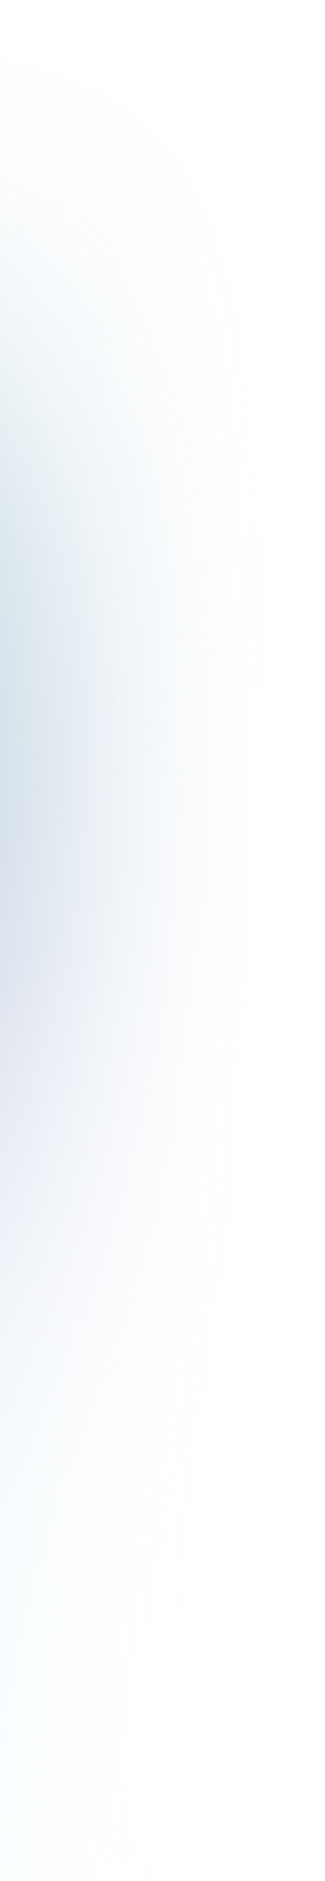
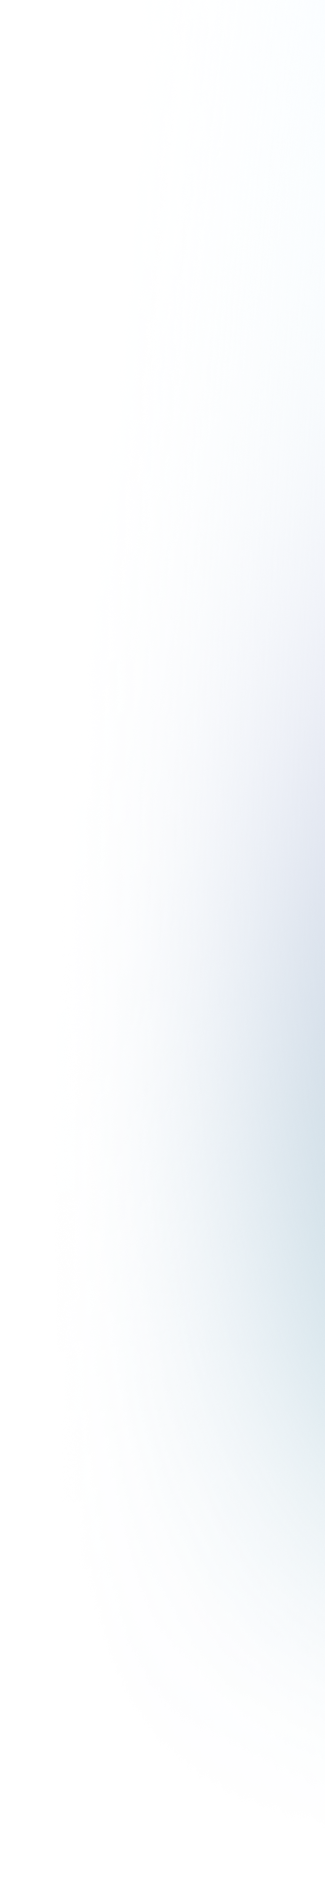
feat: meet the team section done

Changed region(s): [[0.7385, 0.4009, 1.0, 0.7709], [0.0, 0.2158, 0.2462, 0.5859]]

diff --git a/src/components/Team.tsx b/src/components/Team.tsx
@@ -1,0 +1,147 @@
+import andresImg from "../assets/team/andres.png";
+import davidGImg from "../assets/team/david-g.png";
+import faviuImg from "../assets/team/faviu.png";
+import fonsImg from "../assets/team/fons.png";
+import jayImg from "../assets/team/jay.png";
+import robImg from "../assets/team/rob.png";
+import saraImg from "../assets/team/sara.png";
+import steveImg from "../assets/team/steve.png";
+import gradientLeft from "../assets/gradient-left.png";
+import gradientRight from "../assets/gradient-right.png";
+
+type TeamMember = {
+	name: string;
+	role: string;
+	image: string;
+} | null;
+
+type GridCell = {
+	id: string;
+	member: TeamMember;
+};
+
+// 3 rows x 4 columns grid layout matching the Figma design
+const grid: GridCell[] = [
+	{
+		id: "faviu",
+		member: { name: "Faviu", role: "Founder EsoftPlus", image: faviuImg },
+	},
+	{ id: "empty-1", member: null },
+	{
+		id: "david-g",
+		member: { name: "David G.", role: "Lead Engineer", image: davidGImg },
+	},
+	{ id: "empty-2", member: null },
+
+	{ id: "rob", member: { name: "Rob", role: "Lead Engineer", image: robImg } },
+	{ id: "sara", member: { name: "Sara", role: "Editorial", image: saraImg } },
+	{ id: "empty-3", member: null },
+	{
+		id: "fons",
+		member: { name: "Fons", role: "Founder Officer", image: fonsImg },
+	},
+
+	{
+		id: "steve",
+		member: { name: "Steve", role: "Founder EsoftPlus", image: steveImg },
+	},
+	{ id: "empty-4", member: null },
+	{
+		id: "andres",
+		member: { name: "Andres", role: "Chief Staff", image: andresImg },
+	},
+	{ id: "jay", member: { name: "Jay", role: "Lead Engineer", image: jayImg } },
+];
+
+const EmptyCell = () => (
+	<div
+		className="w-full h-full"
+		style={{
+			backgroundImage:
+				"repeating-linear-gradient(135deg, transparent, transparent 3px, rgba(0,0,0,0.07) 3px, rgba(0,0,0,0.07) 4px)",
+		}}
+	/>
+);
+
+const MemberCell = ({
+	member,
+}: {
+	member: { name: string; role: string; image: string };
+}) => (
+	<div className="w-full h-full flex items-center justify-center">
+		<div className="flex flex-col items-start">
+			<img
+				src={member.image}
+				alt={member.name}
+				className="w-40 h-40 object-cover"
+			/>
+			<h3 className="text-2xl font-medium text-black leading-tight mt-4">
+				{member.name}
+			</h3>
+			<p className="text-base font-extralight text-gray-400">{member.role}</p>
+		</div>
+	</div>
+);
+
+const Team = () => {
+	return (
+		<section className="relative w-full min-h-screen bg-white flex flex-col justify-center overflow-hidden">
+			{/* Left gradient */}
+			<div
+				className="absolute left-0 top-0 w-1/3 h-full bg-contain bg-left bg-no-repeat pointer-events-none"
+				style={{
+					backgroundImage: `url(${gradientLeft})`,
+					filter: "saturate(1.5) contrast(1.2) brightness(0.9)",
+				}}
+			/>
+
+			{/* Right gradient */}
+			<div
+				className="absolute right-0 top-0 w-1/3 h-full bg-contain bg-right bg-no-repeat pointer-events-none"
+				style={{
+					backgroundImage: `url(${gradientRight})`,
+					filter: "saturate(2) contrast(2)",
+				}}
+			/>
+
+			<div className="max-w-7xl mx-auto w-full px-8">
+				{/* Header */}
+				<div className="text-center mb-16">
+					<h2 className="text-5xl md:text-6xl font-light leading-tight tracking-tight mb-6">
+						Meet the team
+						<br />
+						behind the project
+					</h2>
+					<p className="text-gray-500 text-base max-w-xl mx-auto leading-relaxed">
+						With deep expertise in ERP integration and a passion for great user
+						experiences, our team is here to help you unlock the full potential
+						of your data, every step of the way.
+					</p>
+				</div>
+			</div>
+
+			{/* Top horizontal dashed line - full width */}
+			<div className="w-full border-t border-dashed border-gray-300" />
+
+			<div className="max-w-7xl mx-auto w-full px-8">
+				{/* Team Grid — 4 cols x 3 rows with dashed borders */}
+				<div className="grid grid-cols-4 border-l border-r border-dashed border-gray-300 aspect-32/21">
+					{grid.map((cell) => (
+						<div key={cell.id} className="border border-dashed border-gray-300">
+							{cell.member ? (
+								<MemberCell member={cell.member} />
+							) : (
+								<EmptyCell />
+							)}
+						</div>
+					))}
+				</div>
+			</div>
+
+			{/* Bottom horizontal dashed line - full width */}
+			<div className="w-full border-b border-dashed border-gray-300" />
+		</section>
+	);
+};
+
+export default Team;

diff --git a/src/App.tsx b/src/App.tsx
@@ -5,6 +5,7 @@ import HeroFooter from "./components/HeroFooter";
 import LearnPlatform from "./components/LearnPlatform";
 import Pricing from "./components/Pricing";
 import FAQ from "./components/FAQ";
+import Team from "./components/Team";
 
 function App() {
 	return (
@@ -17,6 +18,7 @@ function App() {
 				<LearnPlatform />
 				<Pricing />
 				<FAQ />
+				<Team />
 			</div>
 		</div>
 	);
